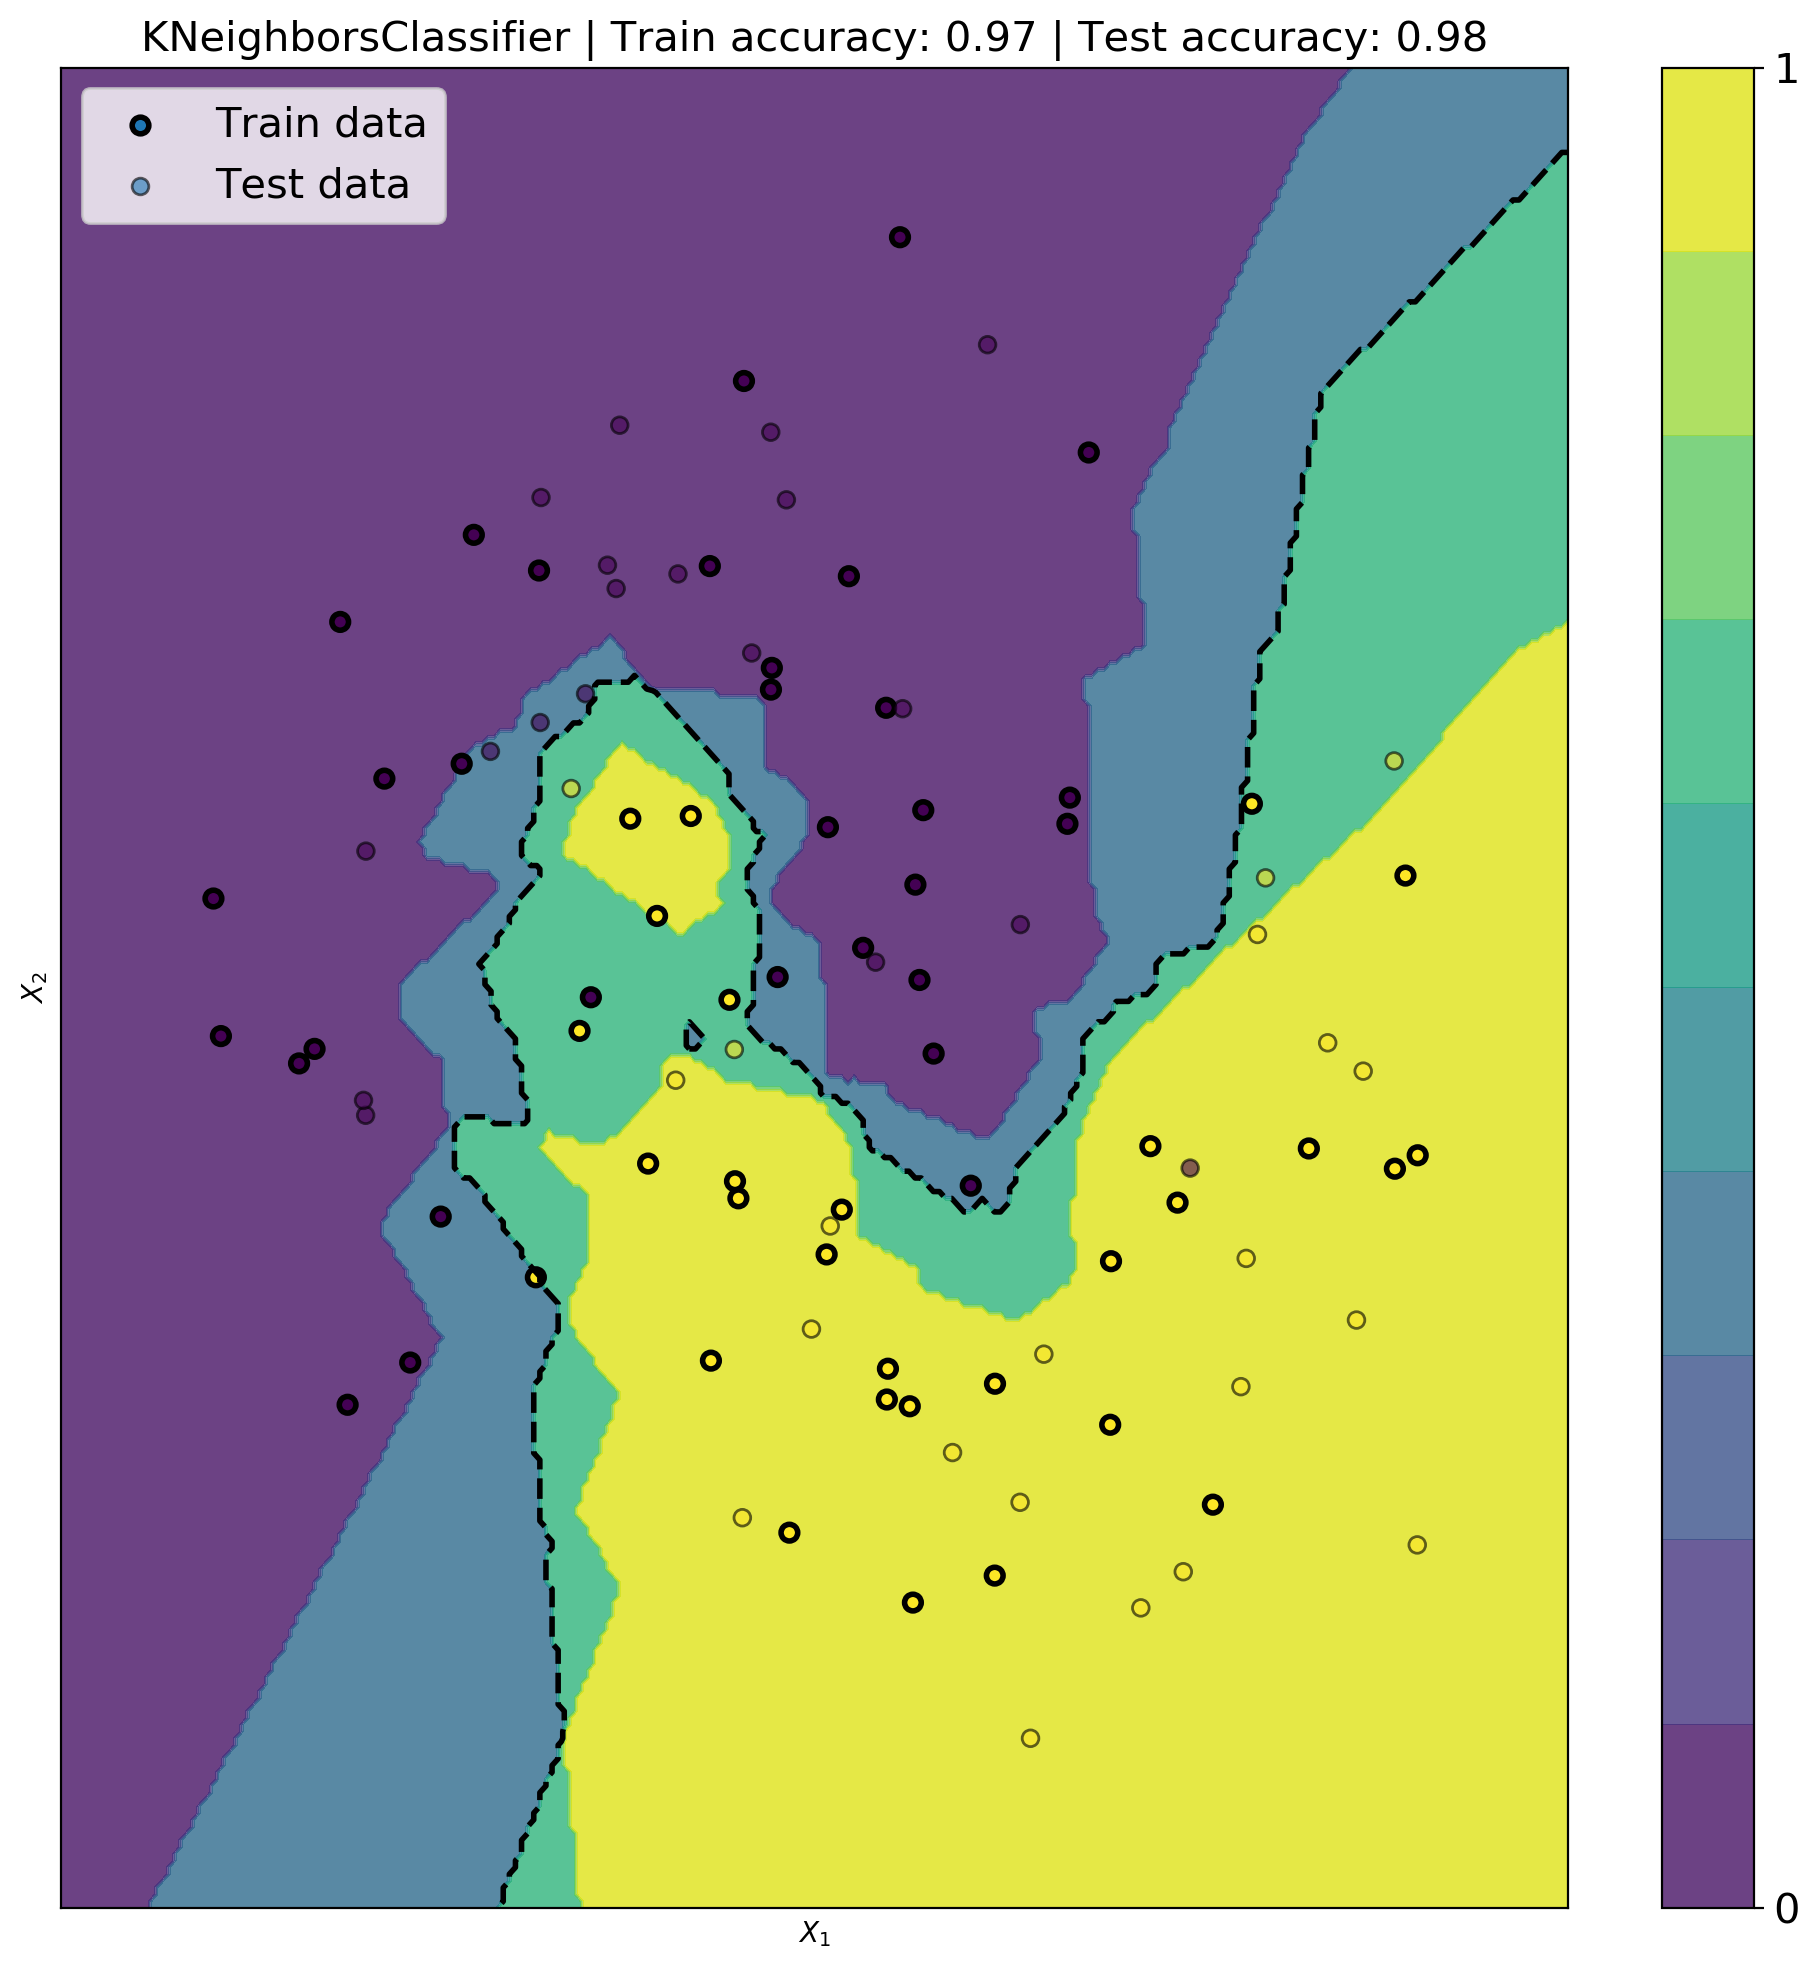
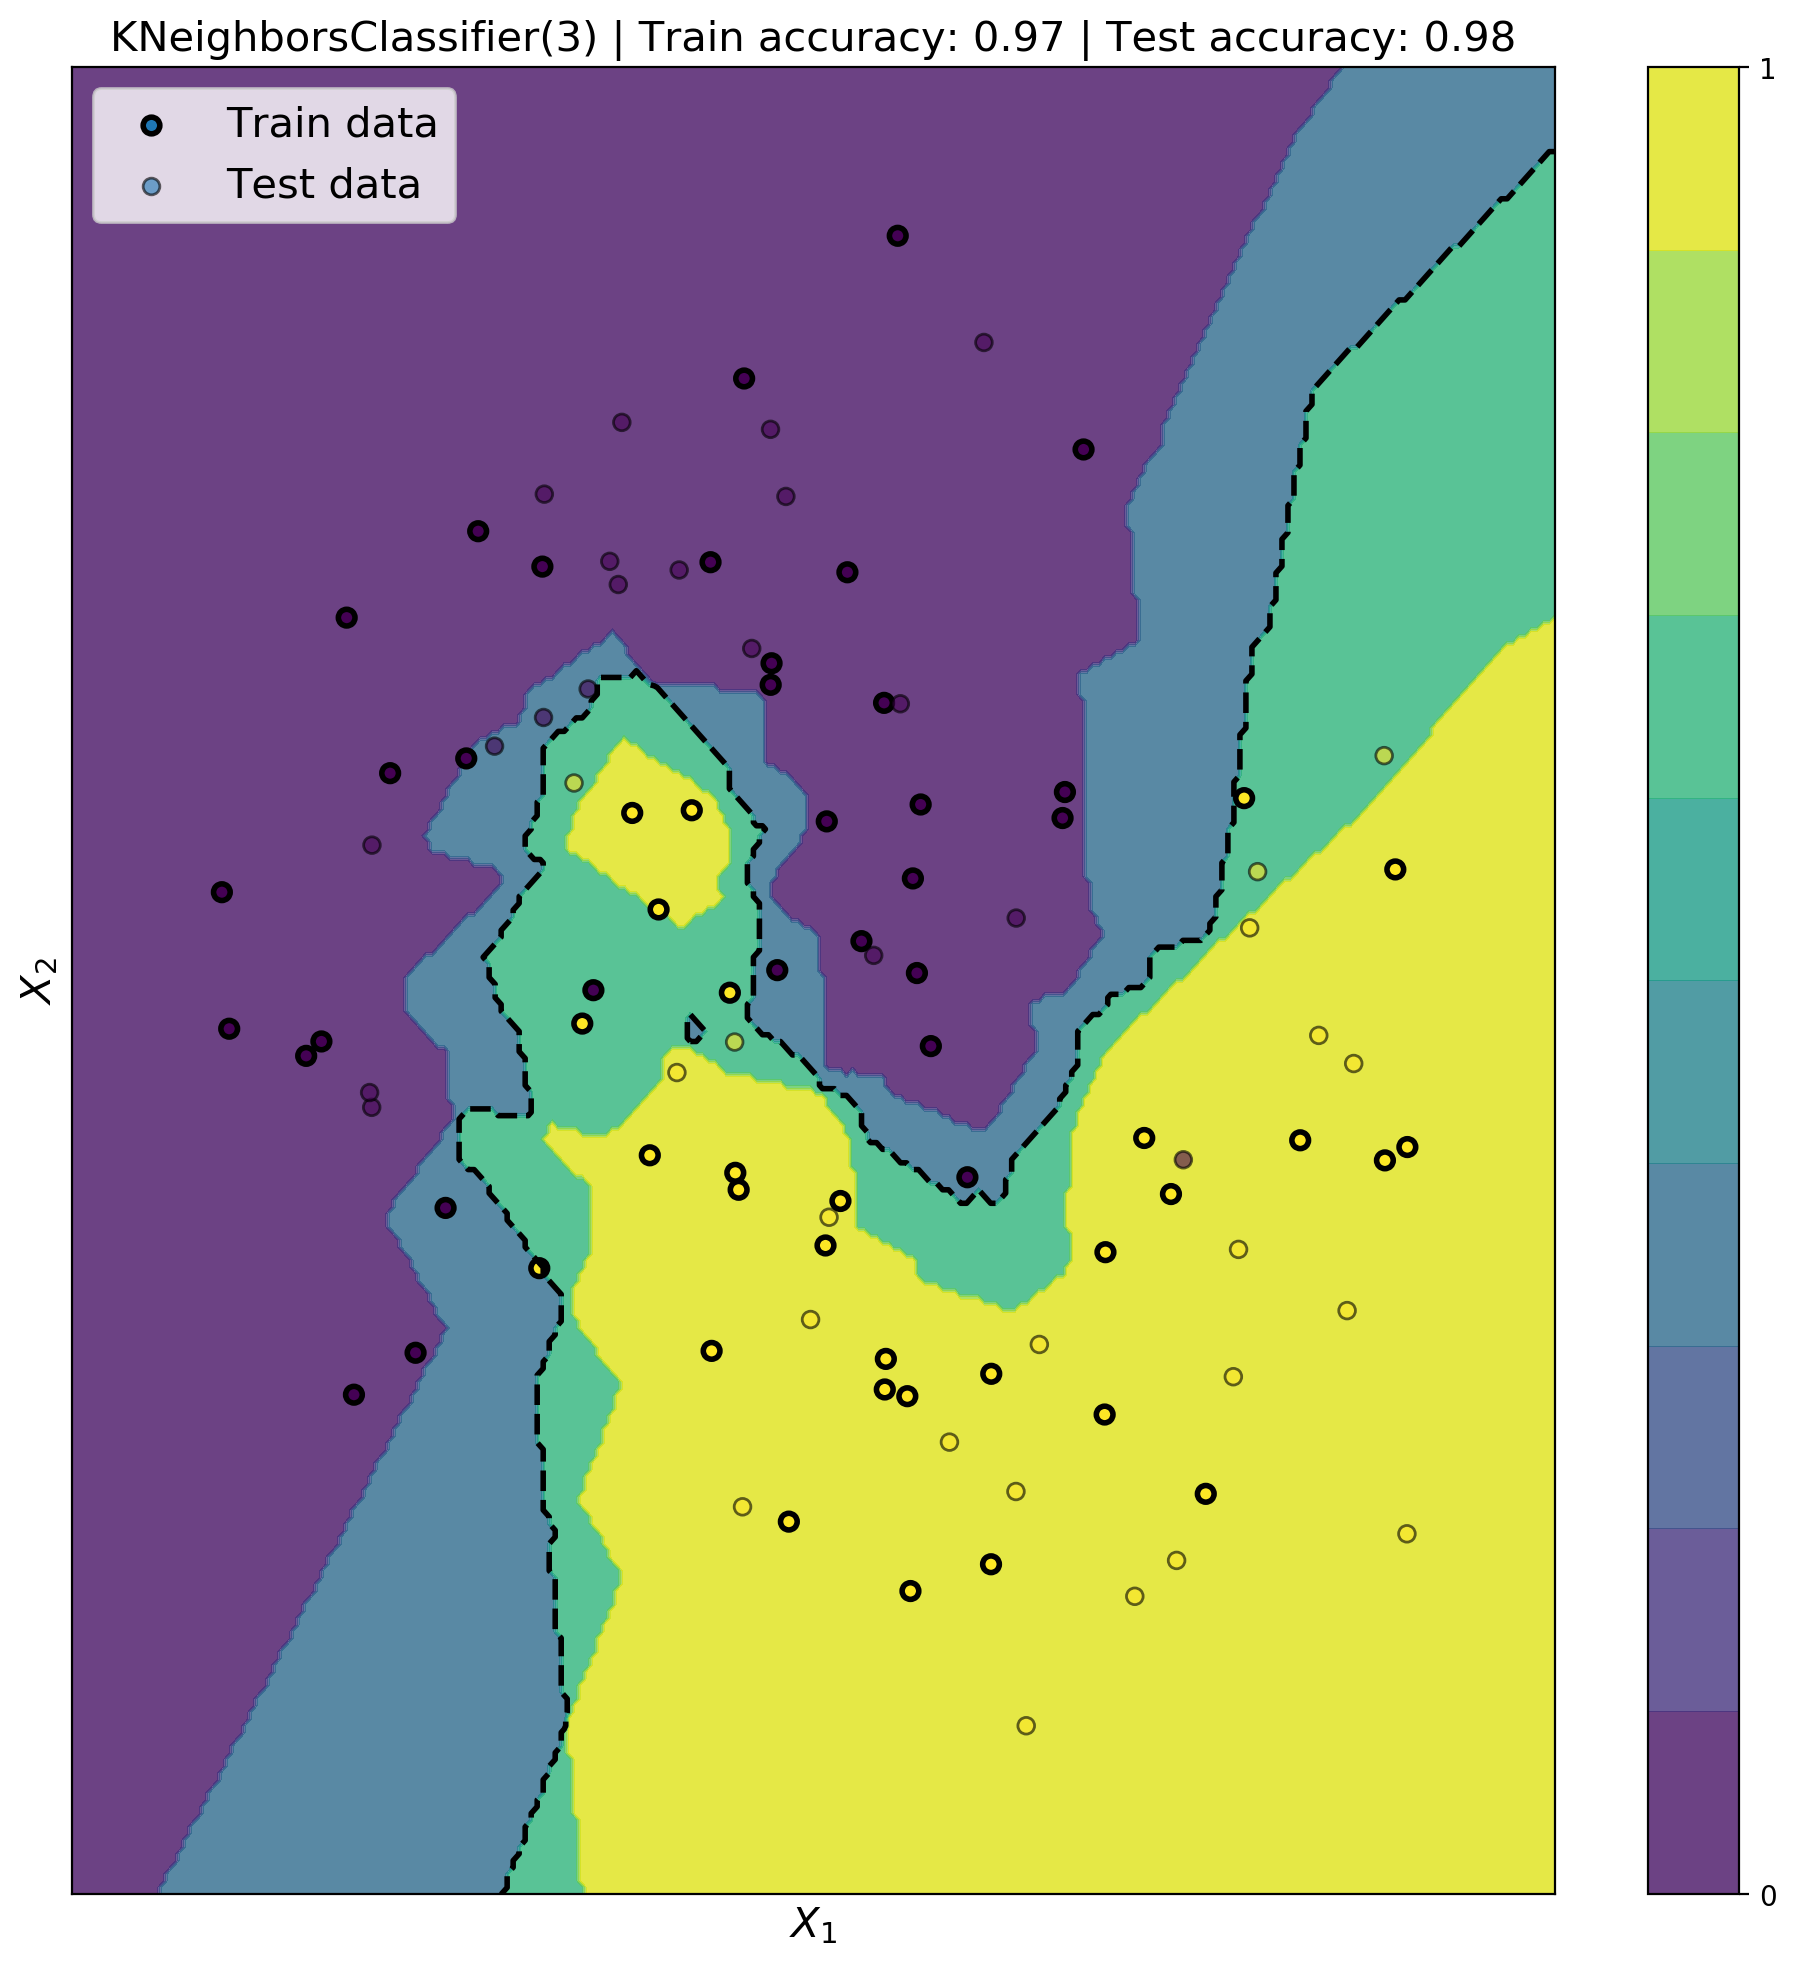
added gif number of nn

diff --git a/3_nb_neighbors_effect.py b/3_nb_neighbors_effect.py
@@ -1,0 +1,97 @@
+import numpy as np
+import matplotlib.pyplot as plt
+import gif
+from matplotlib.colors import ListedColormap
+from sklearn.model_selection import train_test_split
+from sklearn.preprocessing import StandardScaler
+from sklearn.datasets import make_moons
+from sklearn.neighbors import KNeighborsClassifier
+
+
+# CREATE DATASET, SCALE IT and SPLIT INTO TRAIN AND TEST SET
+X, y = make_moons(n_samples=500, noise=0.3, random_state=0)
+X = StandardScaler().fit_transform(X)
+X_train, X_test, y_train, y_test = train_test_split(X, y, test_size=.4, random_state=42)
+
+# DEFINE MESH GRID
+h = .02  # step size of the mesh
+x_min, x_max = X[:, 0].min() - .5, X[:, 0].max() + .5
+y_min, y_max = X[:, 1].min() - .5, X[:, 1].max() + .5
+
+xx, yy = np.meshgrid(np.arange(x_min, x_max, h),
+                     np.arange(y_min, y_max, h))
+
+fs = 15
+
+# WRAP FITTING AND PLOTTING IN A FUNCTION
+@gif.frame
+def plot_knn(nb_neighbors=n, nn_list=[], train_list=[], test_list=[], max_nn=20):
+    """ 2D plot of a KNN classifier with n Nearest neighbors """
+
+    # DEFINE CLASSIFIER, FIT AND COMPUTE METRICS
+    clf = KNeighborsClassifier(n)
+    clf.fit(X_train, y_train)
+
+    # COMPUTE METRICS
+    train_accuracy = round(clf.score(X_train, y_train), 2)
+    test_accuracy = round(clf.score(X_test, y_test), 2)
+    nn_list.append(n)
+    train_list.append(train_accuracy)
+    test_list.append(test_accuracy)
+
+    # PREDICT PROBABILITY CLASSIFIER
+    Z = clf.predict_proba(np.c_[xx.ravel(), yy.ravel()])[:, 1]
+    Z = Z.reshape(xx.shape)
+
+    # DEFINE FIGURE AND COLORMAP
+    fig, (ax1, ax2) = plt.subplots(1, 2, figsize=(20, 10))
+    cm = plt.cm.viridis
+    first, last = cm.colors[0], cm.colors[-1]
+    cm_bright = ListedColormap([first, last])
+
+    # PLOT CONTOUR CLASSIFIER, DECISION BOUNDARY, TRAIN AND TEST DATA
+    cb = ax1.contourf(xx, yy, Z, levels=10, cmap=cm, alpha=0.8)
+    ax1.contour(xx, yy, Z, levels=[.5], colors='k', linestyles='dashed', linewidths=2)
+    ax1.scatter(X_train[:, 0], X_train[:, 1], c=y_train, cmap=cm_bright, edgecolors='k', linewidth=2, label="Train data")
+    ax1.scatter(X_test[:, 0], X_test[:, 1], c=y_test, cmap=cm_bright, edgecolors='k', alpha=0.6, label="Test data")
+
+    # PLOT METRICS VS NB NEIGHBORS
+    ax2.plot(nn_list, train_list, marker='x', color='k', label="Train accuracy")
+    ax2.plot(nn_list, test_list, marker='x', color='r', label="Test accuracy")
+
+    # COLORBAR, AXIS LIMITS, TITLE
+    cbar = plt.colorbar(cb, ticks=[0, 1])
+    ax1.legend(fontsize=fs, loc='upper left')
+    ax1.set_xlim(xx.min(), xx.max())
+    ax1.set_ylim(yy.min(), yy.max())
+    ax1.set_xlabel("$X_1$", fontsize=fs)
+    ax1.set_ylabel("$X_2$", fontsize=fs)
+    ax1.set_xticks(())
+    ax1.set_yticks(())
+
+    ax2.set_xlabel("Number of neighbors", fontsize=fs)
+    ax2.set_ylabel("Accuracy value", fontsize=fs)
+    ax2.legend(fontsize=fs, loc='lower left')
+    ax2.set_xlim(0, max_nn)
+    ax2.set_ylim(0, 1)
+
+    title_str = f"KNeighborsClassifier({clf.n_neighbors}) | Train accuracy: {train_accuracy} | Test accuracy: {test_accuracy}"
+    plt.suptitle(title_str, fontsize=fs)
+    # plt.tight_layout()
+
+
+# Test plot (Comment if not needed, else it will mess up the accuracy plot)
+# plot_knn(3)
+
+# LOOP OVER NUMBER OF NEIGHBORS AND SAVE GIF
+gif.options.matplotlib['dpi'] = 100
+
+frames = []
+max_nn = 40
+
+for n in range(1, max_nn):
+    frame = plot_knn(nb_neighbors=n, max_nn=max_nn)
+    frames.append(frame)
+
+
+gif.save(frames, "plots/nb_neighbors.gif", duration=1, unit='s')

diff --git a/2_simple_plot_KNN.py b/2_simple_plot_KNN.py
@@ -12,15 +12,6 @@ X, y = make_moons(n_samples=100, noise=0.3, random_state=0)
 X = StandardScaler().fit_transform(X)
 X_train, X_test, y_train, y_test = train_test_split(X, y, test_size=.4, random_state=42)
 
-# DEFINE CLASSIFIER, FIT AND COMPUTE METRICS
-name_clf = "KNeighborsClassifier"
-clf = KNeighborsClassifier(3)
-clf.fit(X_train, y_train)
-train_accuracy = clf.score(X_train, y_train)
-test_accuracy = clf.score(X_test, y_test)
-train_str = str(round(train_accuracy, 2))
-test_str = str(round(test_accuracy, 2))
-
 # DEFINE MESH GRID
 h = .02  # step size of the mesh
 x_min, x_max = X[:, 0].min() - .5, X[:, 0].max() + .5
@@ -28,6 +19,13 @@ y_min, y_max = X[:, 1].min() - .5, X[:, 1].max() + .5
 
 xx, yy = np.meshgrid(np.arange(x_min, x_max, h),
                      np.arange(y_min, y_max, h))
+
+# DEFINE CLASSIFIER, FIT AND COMPUTE METRICS
+name_clf = "KNeighborsClassifier"
+clf = KNeighborsClassifier(3)
+clf.fit(X_train, y_train)
+train_accuracy = round(clf.score(X_train, y_train), 2)
+test_accuracy = round(clf.score(X_test, y_test), 2)
 
 # PREDICT PROBABILITY CLASSIFIER
 Z = clf.predict_proba(np.c_[xx.ravel(), yy.ravel()])[:, 1]
@@ -48,15 +46,14 @@ ax.scatter(X_test[:, 0], X_test[:, 1], c=y_test, cmap=cm_bright, edgecolors='k',
 # COLORBAR, AXIS LIMITS, TITLE
 fs = 15
 cbar = plt.colorbar(cb, ticks=[0, 1])
-cbar.ax.set_yticklabels(['0', '1'], fontsize=fs)
 ax.legend(fontsize=fs, loc='upper left')
 ax.set_xlim(xx.min(), xx.max())
 ax.set_ylim(yy.min(), yy.max())
-ax.set_xlabel("$X_1$")
-ax.set_ylabel("$X_2$")
+ax.set_xlabel("$X_1$", fontsize=fs)
+ax.set_ylabel("$X_2$", fontsize=fs)
 ax.set_xticks(())
 ax.set_yticks(())
-title_str = name_clf+' | Train accuracy: '+str(train_str)+' | Test accuracy: '+test_str
+title_str = f"KNeighborsClassifier({clf.n_neighbors}) | Train accuracy: {train_accuracy} | Test accuracy: {test_accuracy}"
 ax.set_title(title_str, fontsize=fs)
 
 # SAVE FIGURE

diff --git a/README.md b/README.md
@@ -3,19 +3,17 @@
 Some binary classifiers are trained on a 2D dataset and visualised.
 
 
-# Installation
+## Installation
 
 ```bash
-git clone ...
+git clone https://github.com/PierreExeter/classifier_visualizations.git
 ```
 
 add conda env.
 
 ## Classifier comparison
 
-This popular visualisation by Scikit Learn compare the performance of various classifier.
-Adapted from [here](https://scikit-learn.org/stable/auto_examples/classification/plot_classifier_comparison.html).
-
+This visualisation by Scikit Learn compares the performance of various classifier. Adapted from [here](https://scikit-learn.org/stable/auto_examples/classification/plot_classifier_comparison.html).
 
 ```bash
 python 1_classifier_comparison.py
@@ -25,8 +23,23 @@ python 1_classifier_comparison.py
 
 ## K-Nearest Neighbors plot
 
+K-Nearest Neighbors is a popular classifier. After being fitted on the train data, it can predict a probability (between 0 and 1) for each point in the 2D feature space. The decision boundary is fixed at 0.5.
+
 ```bash
 python 2_simple_plot_KNN.py
 ```
 
 <img src="plots/simple_plot_KNN.png"/>
+
+
+## Effect of the number of neighbors
+
+
+
+Changing the number of neighbors can have a significant effect on the test accuracy and may cause overfitting.
+
+```bash
+python 3_nb_neighbors_effect.py
+```
+
+<img src="plots/nb_neighbors.gif"/>
